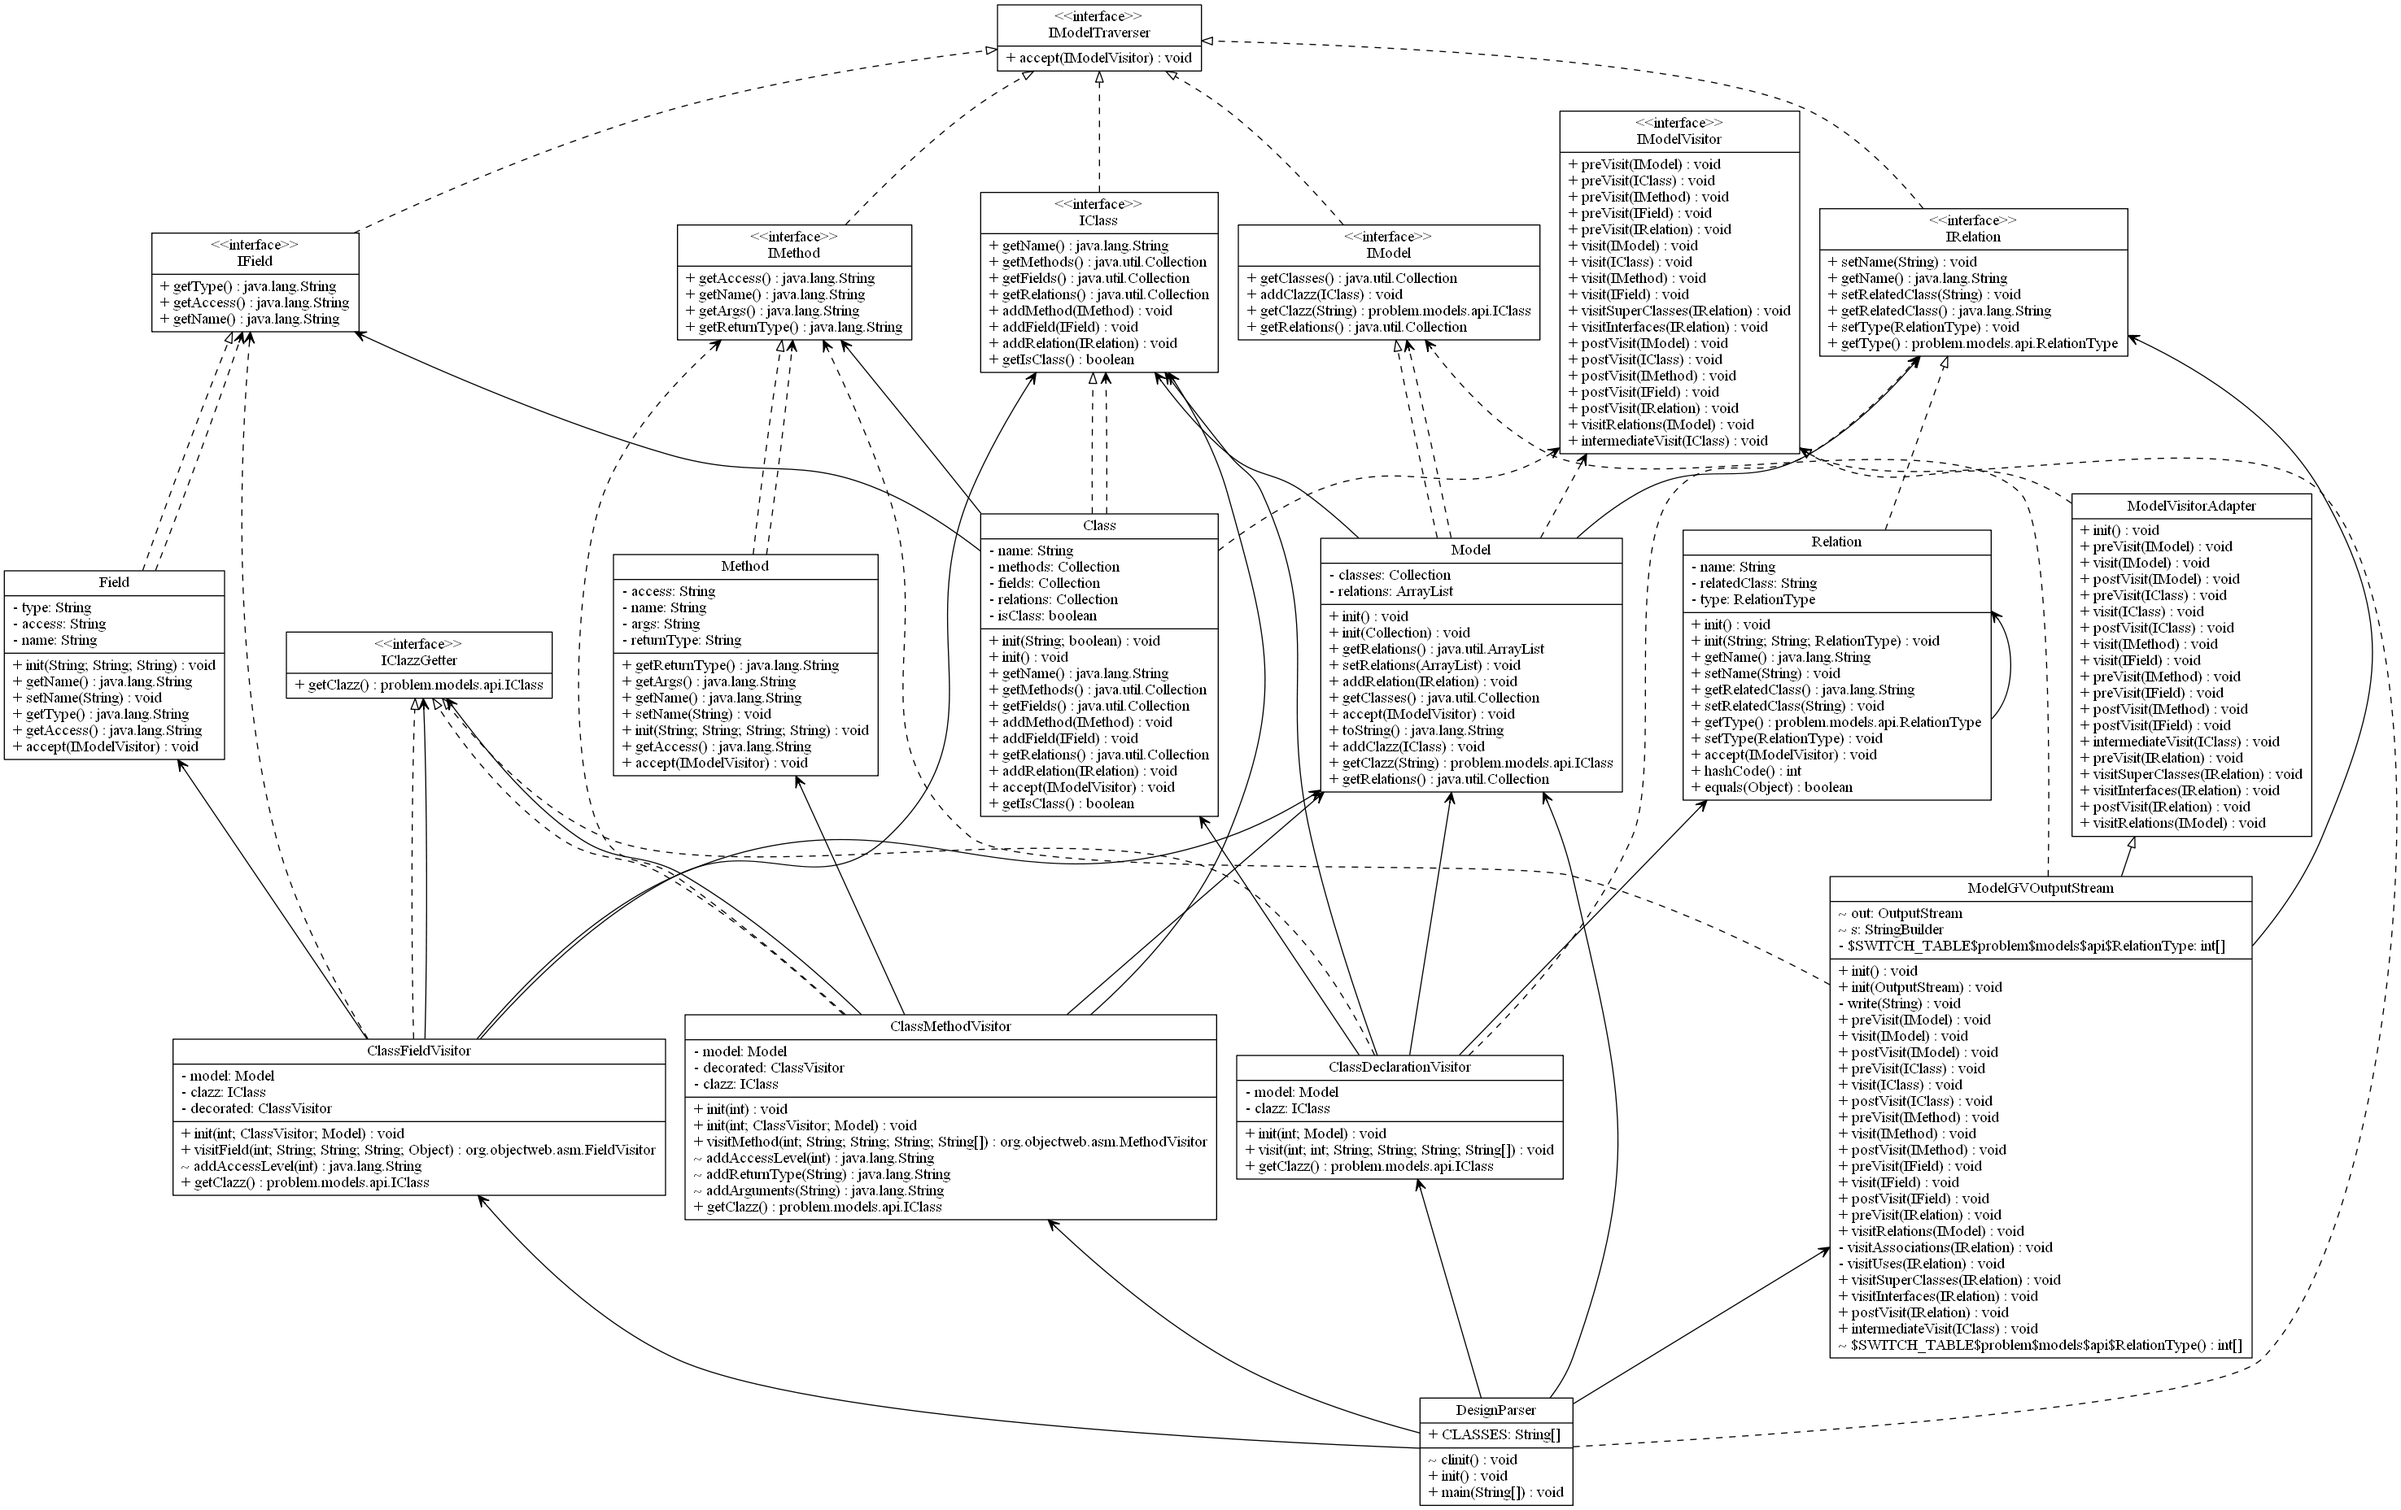
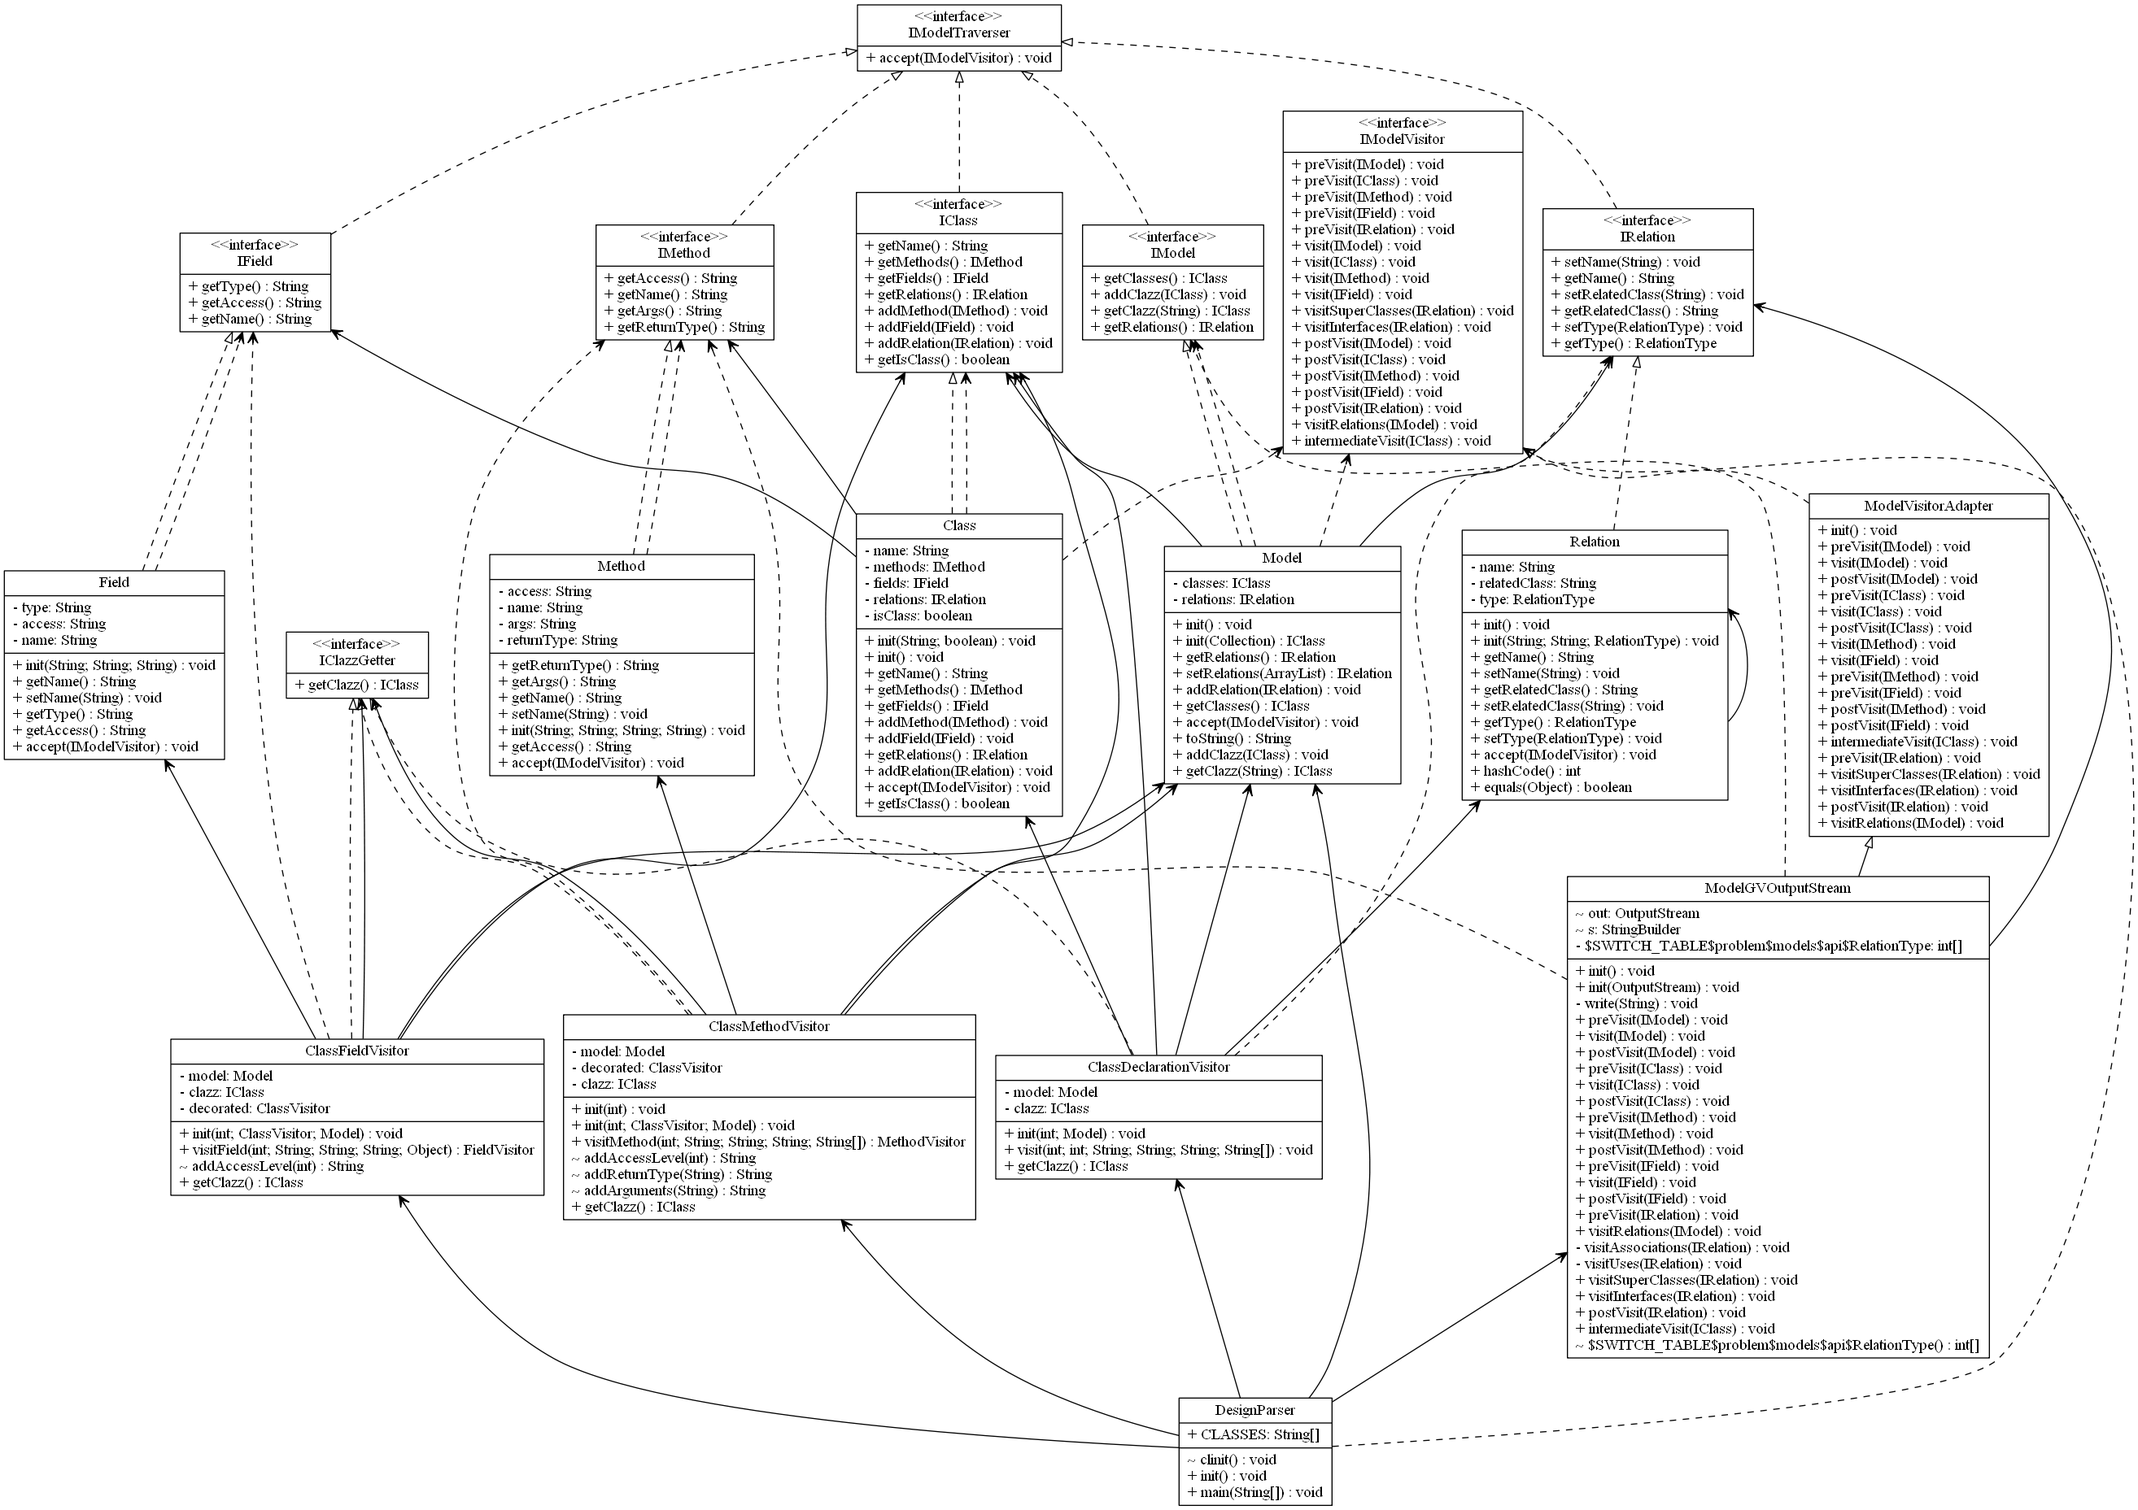
fixed collection generics

diff --git a/src/problem/asm/DesignParser.java b/src/problem/asm/DesignParser.java
@@ -93,8 +93,8 @@ public class DesignParser {
 			out.close();
 			
 			//runs DOT on our .gv file. This might need to be moved?
-			ProcessBuilder builder = new ProcessBuilder("cmd.exe", "/c", "\"C:\\Users\\leekf\\Documents\\JUNIOR\\CSSE374\\release\\bin\\dot\" -Tpng input_output/model.gv > input_output/graph1.png");
-			//ProcessBuilder builder = new ProcessBuilder("cmd.exe", "/c", "\"C:\\Users\\punttj\\Desktop\\csse374\\release\\bin\\dot\" -Tpng input_output/model.gv > input_output/graph1.png");
+			//ProcessBuilder builder = new ProcessBuilder("cmd.exe", "/c", "\"C:\\Users\\leekf\\Documents\\JUNIOR\\CSSE374\\release\\bin\\dot\" -Tpng input_output/model.gv > input_output/graph1.png");
+			ProcessBuilder builder = new ProcessBuilder("cmd.exe", "/c", "\"C:\\Users\\punttj\\Desktop\\csse374\\release\\bin\\dot\" -Tpng input_output/model.gv > input_output/graph1.png");
 			builder.redirectErrorStream(true);
 			Process p = builder.start();
 			String line;

diff --git a/src/problem/models/impl/ModelGVOutputStream.java b/src/problem/models/impl/ModelGVOutputStream.java
@@ -84,7 +84,10 @@ public class ModelGVOutputStream extends ModelVisitorAdapter {
 
 	@Override
 	public void visit(IMethod m) {
-		String s = String.format("%s %s(%s) : %s\\l", m.getAccess(), m.getName(), m.getArgs(), m.getReturnType());
+		String[] returnSplit = m.getReturnType().split("\\.");
+		String returnType = returnSplit[returnSplit.length-1];
+		
+		String s = String.format("%s %s(%s) : %s\\l", m.getAccess(), m.getName(), m.getArgs(), returnType);
 		this.write(s);
 	}
 

diff --git a/src/problem/asm/ClassFieldVisitor.java b/src/problem/asm/ClassFieldVisitor.java
@@ -32,6 +32,13 @@ public class ClassFieldVisitor extends ClassVisitor implements IClazzGetter{
 		
 		this.clazz = this.getClazz();
 		
+		if (signature != null) {
+			String[] sig = signature.split("/");
+			type = sig[sig.length - 1];
+			int index = type.indexOf(";");
+			type = type.substring(0, index);
+		}
+		
 		IClass current = this.model.getClazz(this.clazz.getName());
 		Field f = new Field(type, name, accessLevel);
 		current.addField(f);

diff --git a/src/problem/models/api/IModel.java b/src/problem/models/api/IModel.java
@@ -1,5 +1,6 @@
 package problem.models.api;
 
+import java.util.ArrayList;
 import java.util.Collection;
 
 import problem.model.visitor.IModelTraverser;
@@ -8,5 +9,5 @@ public interface IModel extends IModelTraverser{
 	public Collection<IClass> getClasses();
 	public void addClazz(IClass c);
 	public IClass getClazz(String s);
-	public Collection getRelations();
+	public ArrayList<IRelation> getRelations();
 }
